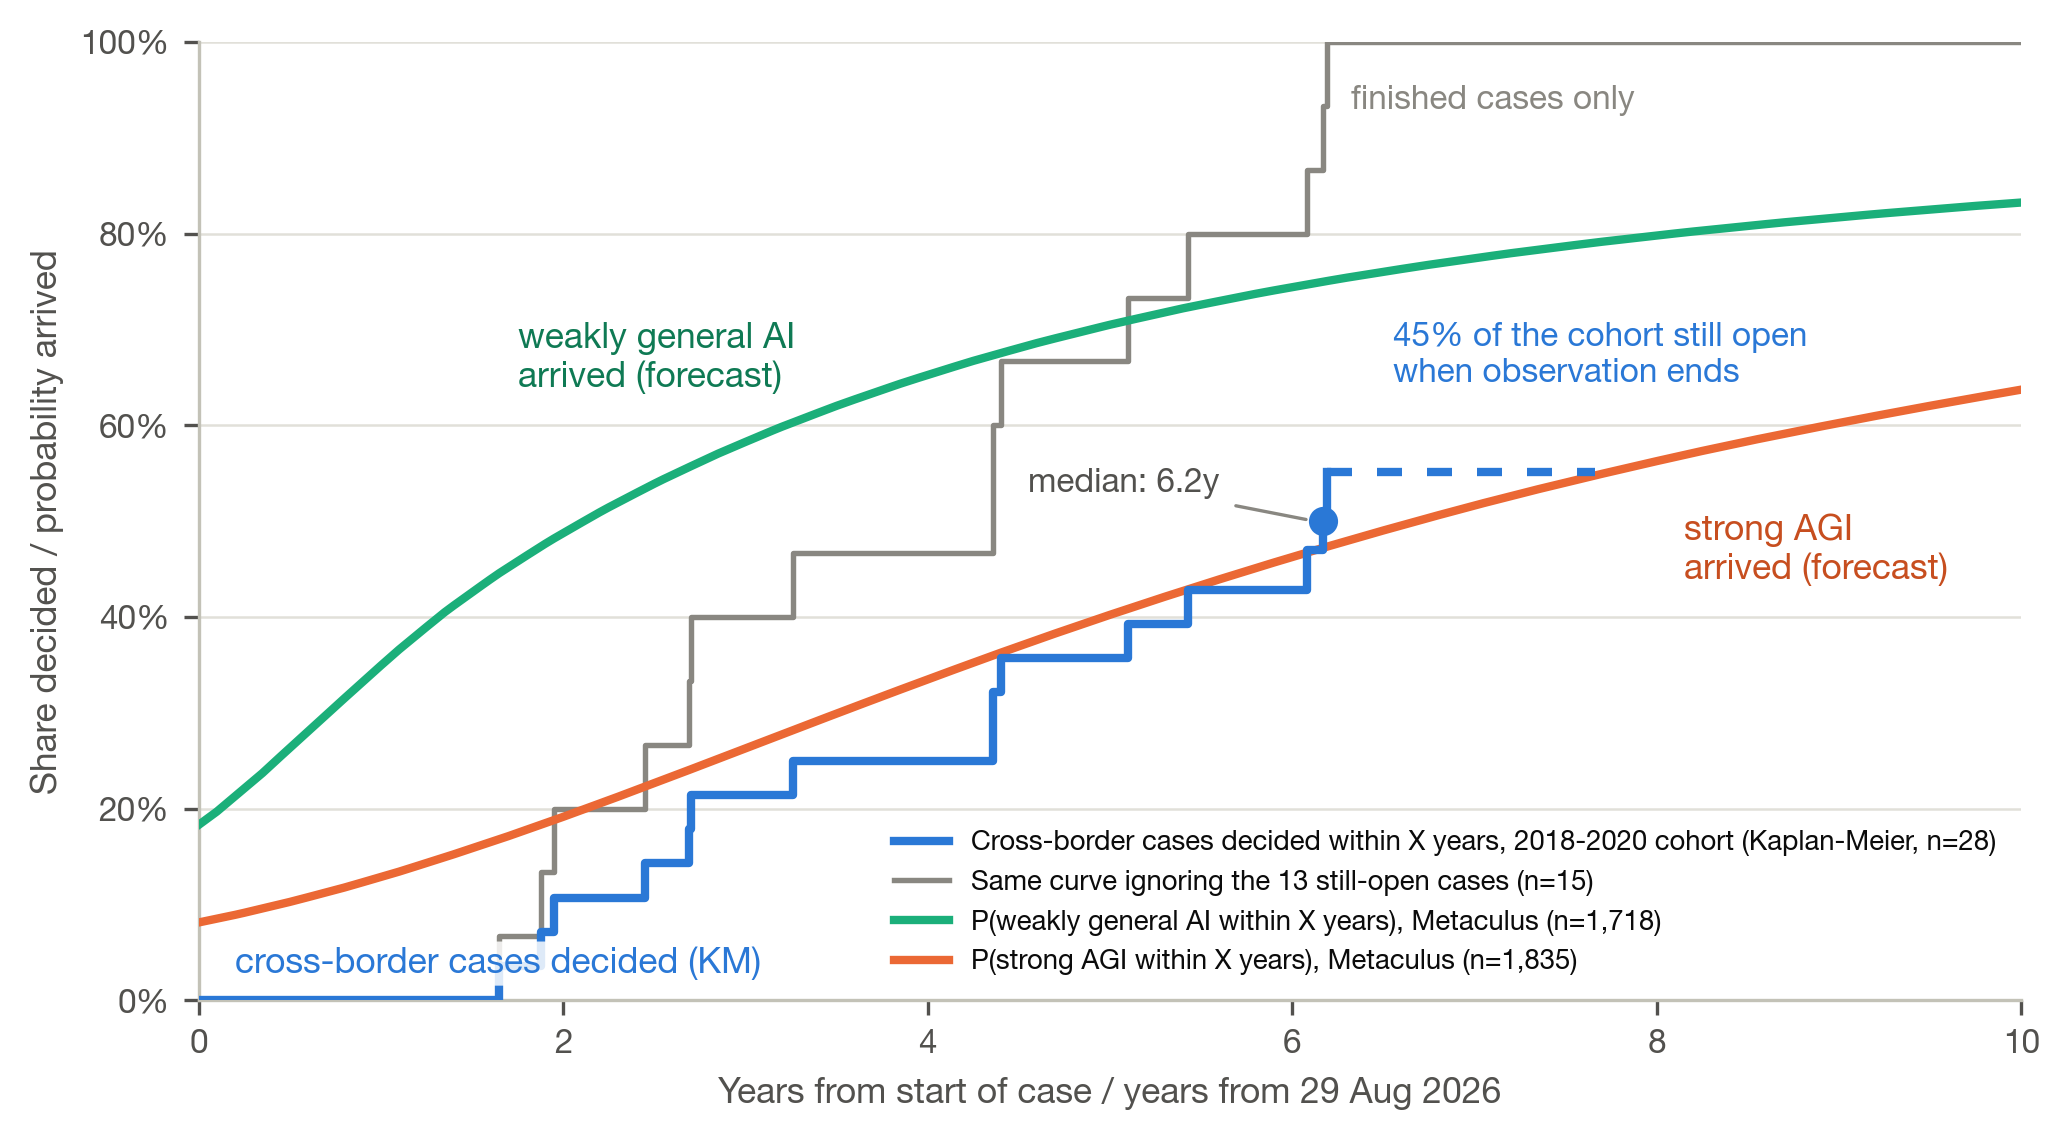
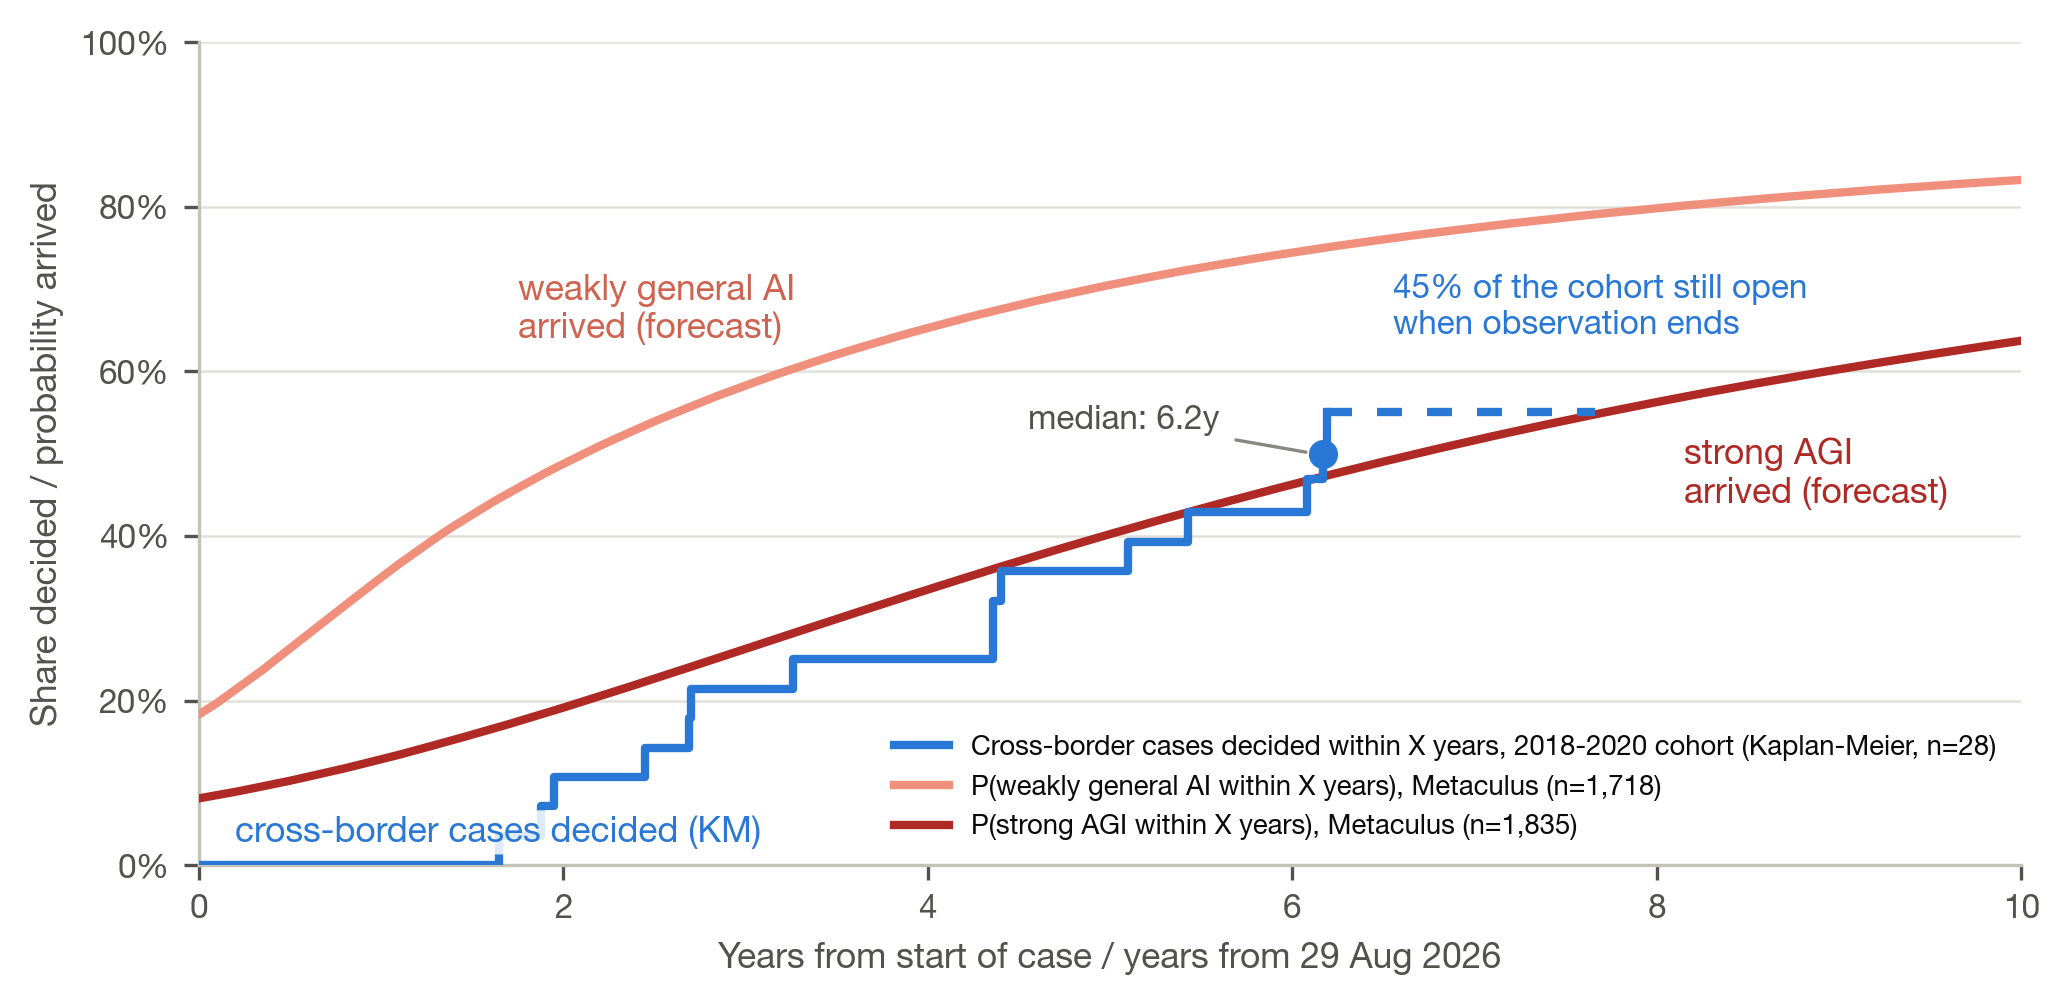
Accuracy audit fixes: dates, counts, scope wording, figure redesign
LinkedIn complaint 28 May 2018 (not GDPR day one); XPT participant counts
corrected (89 superforecasters, 80 experts); collections breakdown includes
Tusla EUR 75k (total EUR 20.04m); register-completeness premise rewritten;
month-precision count 20 not 11; race figure drops finished-only ECDF and
recolors forecast curves light/dark red.

Claude-Session: https://claude.ai/code/session_01UqFtqNHyTcQiCVwBmBH9tg

diff --git a/scripts/analyze.py b/scripts/analyze.py
@@ -102,8 +102,8 @@ dur_all = sorted(r['duration_years'] for r in gdpr)
 dur_bt = sorted(r['duration_years'] for r in bigtech)
 dur_f1m = sorted(r['duration_years'] for r in fined1m)
 
-noyb = [r for r in gdpr if r['trigger_date'] == '2018-05-25']
-noyb_spans = [(dt.date.fromisoformat(r['decision_date']) - dt.date(2018, 5, 25)).days / 365.25 for r in noyb]
+noyb = [r for r in gdpr if r['trigger_date'] in ('2018-05-25', '2018-05-28')]
+noyb_spans = [(dt.date.fromisoformat(r['decision_date']) - dt.date.fromisoformat(r['trigger_date'])).days / 365.25 for r in noyb]
 
 tull = next(r for r in gdpr if 'Tullamore' in r['entity'])
 tull_breach_span = (dt.date.fromisoformat(tull['decision_date']) - dt.date.fromisoformat(tull['trigger_date'])).days / 365.25
@@ -163,7 +163,7 @@ S['share_fined1m_longer_than_strong_q25'] = round(sum(1 for d in dur_f1m if d > 
 #   AR2024: Dept of Health 22,500 (the rest of the 2024 in-year figure is the
 #           Centric+VIEC portion of the Nov 2023 batch)
 #   AR2025: CDETB 125,000
-COLLECTED_THROUGH_2025 = 800_000 + 17_639_500 + 1_375_000 + 22_500 + 125_000
+COLLECTED_THROUGH_2025 = 75_000 + 800_000 + 17_639_500 + 1_375_000 + 22_500 + 125_000  # Tusla EUR 75k confirmed Nov 2020 and paid per AR2020; 2024 counts only the Dept of Health EUR 22.5k newly collected (AR2024's EUR 582.5k total overlaps AR2023 confirmations)
 S['collected_through_2025_eur'] = COLLECTED_THROUGH_2025
 S['collected_share_of_imposed'] = round(COLLECTED_THROUGH_2025 / S['total_fines_eur'], 4)
 
@@ -265,7 +265,7 @@ plt.close(fig)
 json.dump(S, open(os.path.join(OUT, 'stats.json'), 'w'), indent=1)
 
 # ---------- figure 1: the race (KM incidence vs AGI forecast CDFs) ----------
-fig, ax = plt.subplots(figsize=(7.0, 3.9), dpi=300)
+fig, ax = plt.subplots(figsize=(7.0, 3.45), dpi=300)
 xs = [i / 20 for i in range(0, 201)]  # 0..10 years
 p_strong = [strong.p_by_years(x) for x in xs]
 p_weak = [weak.p_by_years(x) for x in xs]
@@ -278,14 +278,8 @@ max_censor = max(cohort_censor_times)
 ax.step(inc_x + [last_event_t], inc_y + [last_inc], where='post', color=BLUE, lw=2, zorder=5,
         label='Cross-border cases decided within X years, 2018-2020 cohort (Kaplan-Meier, n=28)')
 ax.plot([last_event_t, max_censor], [last_inc, last_inc], color=BLUE, lw=2, ls=(0, (3, 3)), zorder=5)
-# finished-only ECDF for the same cohort (context: the flattering version)
-ev = sorted(cohort_event_times)
-gx = [0] + ev + [10]
-gy = [0] + [(i + 1) / len(ev) for i in range(len(ev))] + [1.0]
-ax.step(gx, gy, where='post', color=MUTED, lw=1.3, zorder=3,
-        label='Same curve ignoring the 13 still-open cases (n=15)')
-ax.plot(xs, p_weak, color=AQUA, lw=2, zorder=4, label=f'P(weakly general AI within X years), Metaculus (n={weak.n:,})')
-ax.plot(xs, p_strong, color=ORANGE, lw=2, zorder=4, label=f'P(strong AGI within X years), Metaculus (n={strong.n:,})')
+ax.plot(xs, p_weak, color='#f0907c', lw=2, zorder=4, label=f'P(weakly general AI within X years), Metaculus (n={weak.n:,})')
+ax.plot(xs, p_strong, color='#b02a25', lw=2, zorder=4, label=f'P(strong AGI within X years), Metaculus (n={strong.n:,})')
 
 ax.set_xlim(0, 10); ax.set_ylim(0, 1.0)
 ax.set_xlabel('Years from start of case / years from 29 Aug 2026', fontsize=8.5)
@@ -297,9 +291,8 @@ ax.tick_params(labelsize=8)
 
 ax.annotate('cross-border cases decided (KM)', xy=(0.2, 0.028), color=BLUE, fontsize=8.5, fontweight='bold',
             bbox=dict(boxstyle='round,pad=0.15', facecolor='white', edgecolor='none', alpha=0.85), zorder=7)
-ax.annotate('finished cases only', xy=(6.32, 0.93), color=MUTED, fontsize=8)
-ax.annotate('weakly general AI\narrived (forecast)', xy=(1.75, 0.64), color='#0f7a54', fontsize=8.5, fontweight='bold')
-ax.annotate('strong AGI\narrived (forecast)', xy=(8.15, 0.44), color='#c74e1f', fontsize=8.5, fontweight='bold')
+ax.annotate('weakly general AI\narrived (forecast)', xy=(1.75, 0.64), color='#cf6350', fontsize=8.5, fontweight='bold')
+ax.annotate('strong AGI\narrived (forecast)', xy=(8.15, 0.44), color='#b02a25', fontsize=8.5, fontweight='bold')
 ax.plot([S['km_median_years']], [0.5], marker='o', ms=6, color=BLUE, zorder=6)
 ax.annotate(f"median: {S['km_median_years']:.1f}y", xy=(S['km_median_years'] - 0.05, 0.5),
             xytext=(4.55, 0.53), fontsize=8, color=INK2,
@@ -379,7 +372,7 @@ L.append(f"- GDPR inquiries: median {S['median_gdpr_years']}y, mean {S['mean_gdp
 L.append(f"- Big-tech (cross-border platform) inquiries: n={S['n_bigtech']}, median {S['median_bigtech']}y")
 L.append(f"- Inquiries ending in a fine >= EUR 1m: n={S['n_fined1m']}, median {S['median_fined1m']}y, mean {S['mean_fined1m']}y")
 L.append(f"- Share of GDPR inquiries taking > 3y: {S['share_over_3y']:.0%}; > 5y: {S['share_over_5y']:.0%}")
-L.append(f"- GDPR-day-one complaints (25 May 2018) to final decision: {S['noyb_spans']} years (Facebook, Instagram, WhatsApp, LinkedIn)")
+L.append(f"- GDPR-launch-window complaints (25-28 May 2018) to final decision: {S['noyb_spans']} years (Facebook, Instagram, WhatsApp, LinkedIn)")
 L.append(f"- Meta EU-US transfers: original complaint (Jun 2013) to decision (May 2023): {S['meta_transfers_complaint_to_decision']}y")
 L.append(f"- Tullamore hospital ransomware: breach notified Nov 2018, decision Jun 2026: {S['tullamore_breach_to_decision']}y")
 L.append(f"- Cross-border inquiries opened 2018-2020 with NO published decision by Aug 2026: {S['n_open_pre2021_no_decision']} (of 27 open at end-2020)")

diff --git a/output/stats.md b/output/stats.md
@@ -3,12 +3,12 @@
 ## DPC inquiry durations (concluded, published decisions)
 - Concluded decisions in dataset: 67 (59 GDPR, 8 LED/DPA)
 - Total administrative fines imposed: EUR 4,038,832,000 (matches the DPC's own cumulative figure of EUR 4.04bn, AR2025)
-- Actually collected through end-2025 per DPC annual reports: EUR 19,962,000 (0.5%); fines are payable only after Circuit Court confirmation or the end of appeals
+- Actually collected through end-2025 per DPC annual reports: EUR 20,037,000 (0.5%); fines are payable only after Circuit Court confirmation or the end of appeals
 - GDPR inquiries: median 1.95y, mean 2.54y, IQR 1.3-3.46y, max 6.67y
 - Big-tech (cross-border platform) inquiries: n=26, median 1.96y
 - Inquiries ending in a fine >= EUR 1m: n=14, median 3.99y, mean 3.91y
 - Share of GDPR inquiries taking > 3y: 30%; > 5y: 15%
-- GDPR-day-one complaints (25 May 2018) to final decision: [4.6, 4.6, 4.64, 6.41] years (Facebook, Instagram, WhatsApp, LinkedIn)
+- GDPR-launch-window complaints (25-28 May 2018) to final decision: [4.6, 4.6, 4.64, 6.4] years (Facebook, Instagram, WhatsApp, LinkedIn)
 - Meta EU-US transfers: original complaint (Jun 2013) to decision (May 2023): 9.88y
 - Tullamore hospital ransomware: breach notified Nov 2018, decision Jun 2026: 7.56y
 - Cross-border inquiries opened 2018-2020 with NO published decision by Aug 2026: 13 (of 27 open at end-2020)
@@ -26,7 +26,7 @@
 - P(strong AGI within one median DPC inquiry): 19%
 - P(weak AGI within one median EUR-1m+ fine inquiry, 3.99y): 65%
 - P(strong AGI within one median EUR-1m+ fine inquiry): 33%
-- P(strong AGI within the LinkedIn complaint-to-decision span, 6.41y): 48%
+- P(strong AGI within the LinkedIn complaint-to-decision span, 6.4y): 48%
 - P(strong AGI within the longest concluded inquiry, 6.67y): 50%  (P weak: 76%)
 - P(strong AGI within the Google adtech inquiry's current age, 7.27y): 53%
 - Share of concluded GDPR inquiries that outlasted 2.83y (the forecasters' 25% strong-AGI horizon): 30% (EUR-1m+ fine subset: 64%)

diff --git a/README.md b/README.md
@@ -36,12 +36,15 @@ scripts below.
   Commencement Letter date stated in the decision) to the DPC's final decision adoption
   date. This excludes pre-inquiry complaint handling (captured in `trigger_date` where
   known) and excludes post-decision appeals, so it understates end-to-end enforcement time.
-- 11 rows have month precision (day set to the 15th, or to the documented program start
+- 20 rows have month precision (day set to the 15th, or to the documented program start
   for the June 2018 CCTV sweep). `commencement_precision` flags them.
 - Eight decisions under the Law Enforcement Directive / Data Protection Act Part 5 are
   flagged `LED` and excluded from headline GDPR statistics.
-- The DPC publishes every decision made under the 2018 Act; absence from the register is
-  the basis for the "no published final decision" status of open inquiries.
+- The dataset covers final decisions published on the DPC's register. The register is
+  not exhaustive: AR2025 lists a handful of 2025 complaint-handling decisions
+  (reprimands and dismissals) that were never posted to it, so the register is treated
+  as the universe of published decisions, and "no published final decision" is the
+  criterion for counting an inquiry as open.
 - Fine figures are amounts IMPOSED. Fines become payable only after Circuit Court
   confirmation (s.143 DPA 2018) or the end of appeals; per the DPC's own annual reports,
   roughly EUR 19.96m of the EUR 4.04bn imposed had been collected by end-2025
